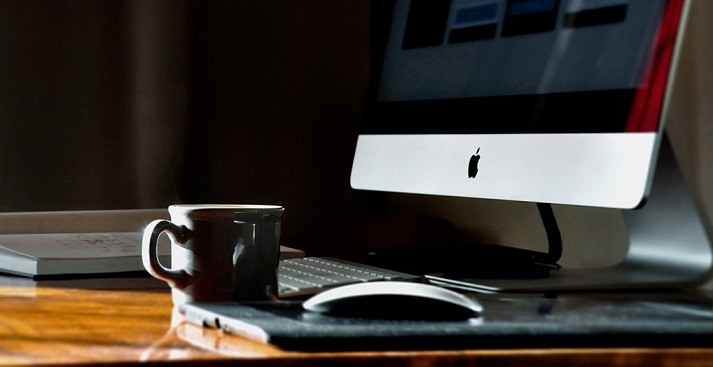
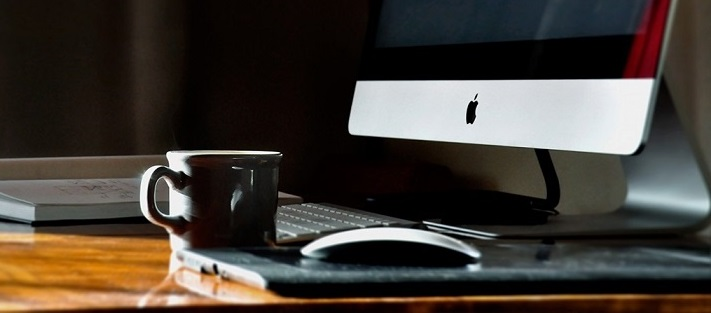
update

diff --git a/css/style.css b/css/style.css
@@ -14,7 +14,7 @@ body {font-family:Arial , Tahoma;margin:0}
 /* Start Slider */
 
 .header .slider {
-    height:78%;
+    height:75%;
     background-image:url('../images/slider.jpg');
     -webkit-background-size: cover; /* CSS3 */
     -moz-background-size: cover; /* CSS3 */
@@ -23,7 +23,7 @@ body {font-family:Arial , Tahoma;margin:0}
 }
 
 .header .slider .intro {
-    padding-top:12%;
+    padding-top:4%;
     color: #FFF;
     text-align:center
 }
